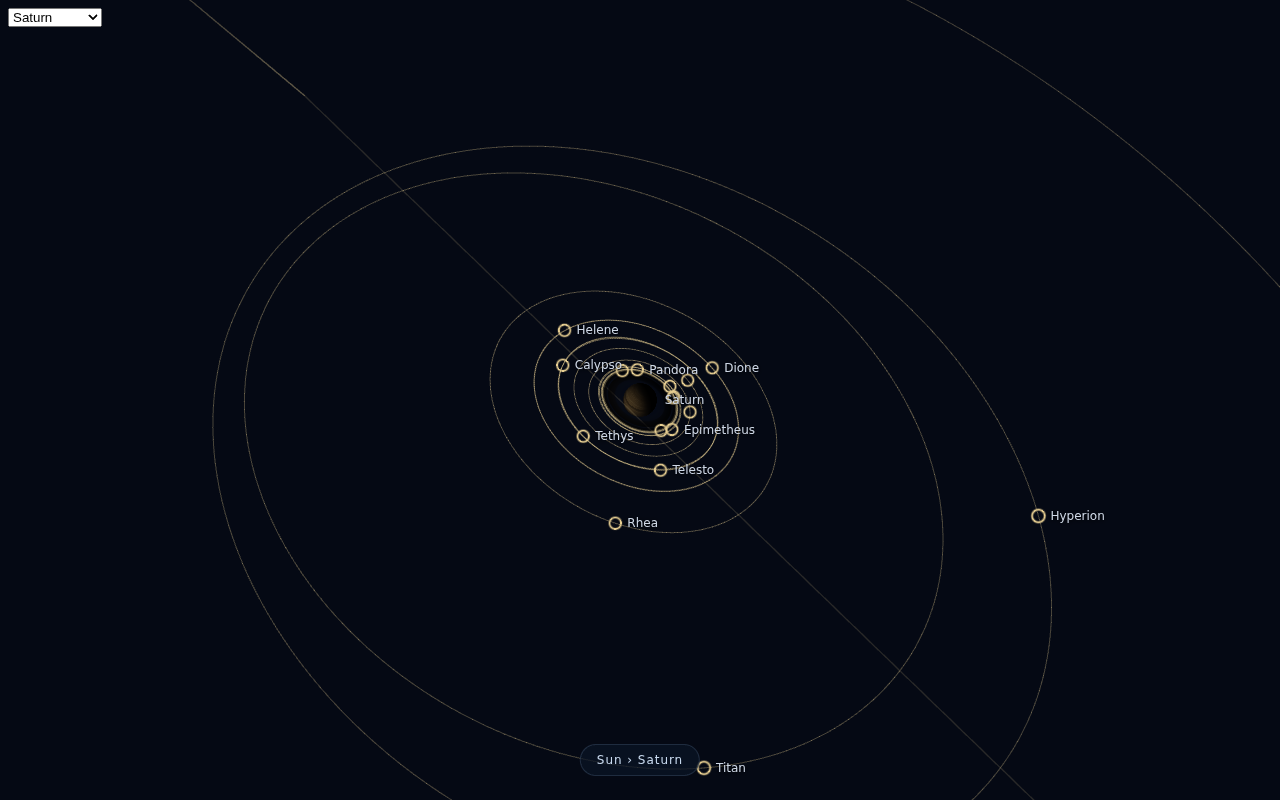
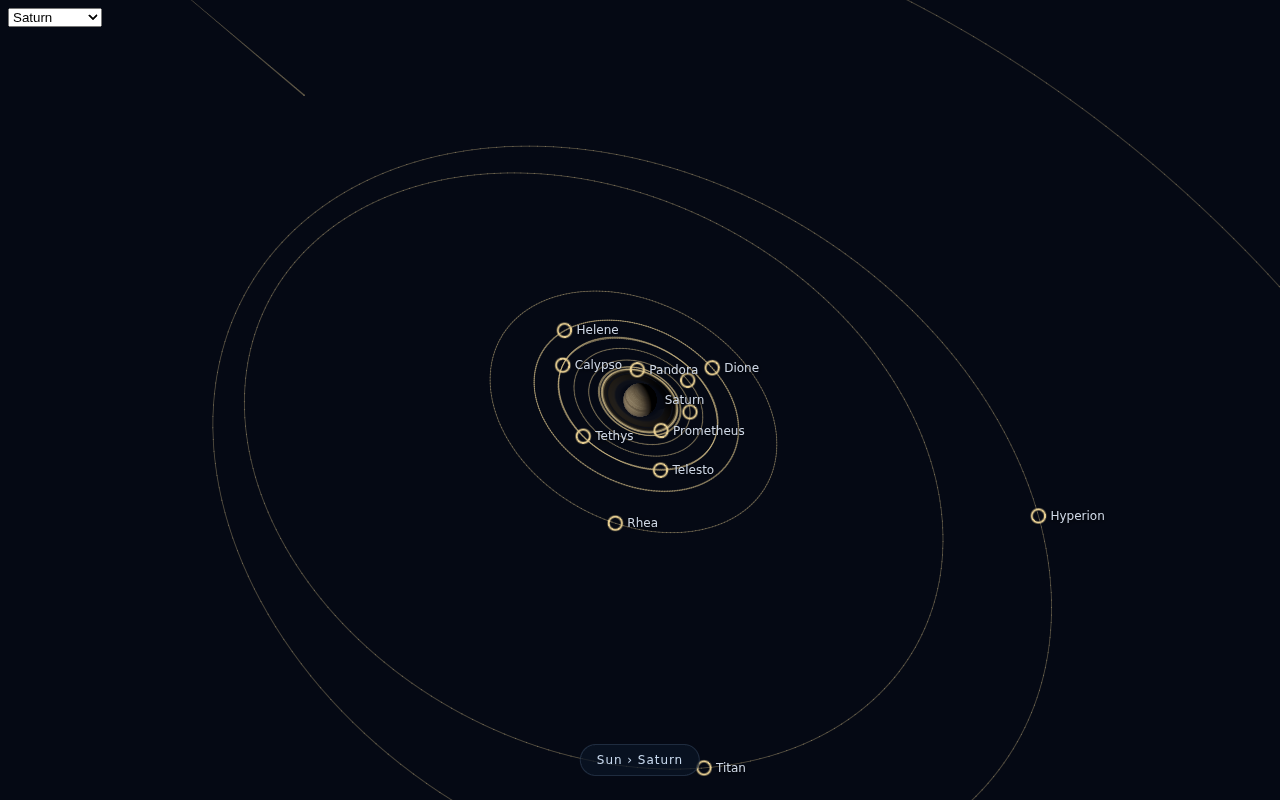
Validate map presentation and finalize shared rendering integration

Changed region(s): [[0.4375, 0.4062, 0.5938, 0.5938], [0.5312, 0.9375, 0.5625, 0.9688], [0.4375, 0.5312, 0.4688, 0.5625]]

diff --git a/src/render/map/MapView.ts b/src/render/map/MapView.ts
@@ -1,5 +1,5 @@
 import { PlanetRenderer, type PlanetUpdateParams } from '../planet/PlanetRenderer';
-import { QUALITY_PRESETS } from '../core/quality';
+import { QUALITY_PRESETS, type QualitySettings } from '../core/quality';
 import { createTerrain } from '../../sim/terrain';
 import { SCALE_PRESETS } from '../../sim/bodies/scale';
 import { BodyIcons } from './BodyIcons';
@@ -31,6 +31,8 @@ export interface MapUpdate {
   t: number;
   /** Optional stable identity enables focus animation while the object moves. */
   focusId?: string;
+  /** Body ancestry to display when the focus is a vessel. */
+  referenceBody?: string;
   /** Heliocentric position of the focused object (float64). */
   focus: Vec3;
   /** Active vessel trajectory (patched conics) and its heliocentric position. */
@@ -474,6 +476,7 @@ export class MapView {
     bodies: Map<string, Body>,
     private ephem: Ephemeris,
     labelHost: HTMLElement,
+    private quality: QualitySettings = QUALITY_PRESETS.medium,
   ) {
     this.scene.background = new THREE.Color(0x050914);
     this.sunId = [...bodies.values()].find(b => b.kind === 'star')!.id;
@@ -714,11 +717,27 @@ export class MapView {
       vis.sphere.userData.mapVisible = visible;
       const resolved = visible && angular*h > 1.5;
       if (resolved && !vis.renderer) {
-        const quality = { ...QUALITY_PRESETS.low, bakedTextureWidth: QUALITY_PRESETS.medium.bakedTextureWidth };
+        const quality = { ...QUALITY_PRESETS.low, bakedTextureWidth: this.quality.bakedTextureWidth };
         const sunRadius = this.bodies.get(this.sunId)!.body.radius;
         const scale = { ...SCALE_PRESETS.standard, s: sunRadius / 696340000 };
         vis.renderer = new PlanetRenderer(vis.body, vis.body.solidSurface ? createTerrain(vis.body) : null,
           { farOnly: true, quality, scale, registerUniforms: false, sunRadiance: 4 });
+        // Flight's HDR compositor transforms these shaders; direct map rendering needs its own output transform.
+        vis.renderer.root.traverse(object => {
+          if (!(object instanceof THREE.Mesh)) return;
+          const materials = Array.isArray(object.material) ? object.material : [object.material];
+          for (const material of materials) {
+            if (!(material instanceof THREE.ShaderMaterial) || material.fragmentShader.includes('colorspace_fragment')) continue;
+            const premultiplied = material.blending === THREE.CustomBlending && material.blendSrc === THREE.OneFactor;
+            material.fragmentShader = material.fragmentShader.replace(/\}\s*$/, `
+              ${premultiplied ? 'gl_FragColor.rgb /= max(gl_FragColor.a, .00001);' : ''}
+              #include <tonemapping_fragment>
+              #include <colorspace_fragment>
+              ${premultiplied ? 'gl_FragColor.rgb *= gl_FragColor.a;' : ''}
+            }`);
+            material.needsUpdate = true;
+          }
+        });
         this.scene.add(vis.renderer.root);
       }
       const resource = this.resourceBodies.has(vis.body.id);
@@ -764,9 +783,10 @@ export class MapView {
     if (this.hoverBody && this.soi.visible) {
       this.soi.position.copy(this.hoverBody.sphere.position); this.soi.scale.setScalar(this.hoverBody.body.soi);
     }
-    const focusBody = this.bodies.get(identity);
-    if (focusBody && this.breadcrumb.dataset.focus !== identity) {
-      this.breadcrumb.dataset.focus = identity;
+    const breadcrumbId = u.referenceBody ?? identity;
+    const focusBody = this.bodies.get(breadcrumbId);
+    if (focusBody && this.breadcrumb.dataset.focus !== breadcrumbId) {
+      this.breadcrumb.dataset.focus = breadcrumbId;
       const chain: string[] = [];
       let body: Body | undefined = focusBody.body;
       while (body) { chain.unshift(body.name); body = body.parent ? this.bodies.get(body.parent)?.body : undefined; }

diff --git a/tests/map-presentation.test.ts b/tests/map-presentation.test.ts
@@ -5,6 +5,9 @@ import { createEphemeris } from '../src/sim/orbit/ephemeris';
 import { MapView } from '../src/render/map/MapView';
 import { bodyBreadcrumbs, familyColor, placeLabel } from '../src/render/map/presentation';
 import { acquireSurfaceBake } from '../src/render/planet/sharedBake';
+import { PlanetRenderer } from '../src/render/planet/PlanetRenderer';
+import { QUALITY_PRESETS } from '../src/render/core/quality';
+import { livePlanetUniforms } from '../src/render/planet/uniforms';
 import { TerrainWorkerPool } from '../src/render/planet/workerPool';
 import { createTerrain } from '../src/sim/terrain';
 
@@ -42,6 +45,26 @@ describe('map presentation', () => {
     b.release(); await Promise.resolve(); expect(dispose).toHaveBeenCalledOnce();
     pool.dispose();
   });
+  it('shares flight/map surface textures without replacing flight lighting', async () => {
+    const body = createUniverse('standard').get('moon')!, terrain = createTerrain(body), pool = new TerrainWorkerPool(0);
+    const quality = { ...QUALITY_PRESETS.low, bakedTextureWidth: 16 };
+    const flight = new PlanetRenderer(body, terrain, { farOnly: true, pool, quality });
+    const map = new PlanetRenderer(body, terrain, { farOnly: true, pool, quality, registerUniforms: false });
+    const bake = vi.spyOn(pool, 'bake');
+    const camera = new THREE.PerspectiveCamera(); camera.position.set(3e6,0,0);
+    const input = { camera, origin: { x: 0,y: 0,z: 0 }, bodyPosition: { x: 0,y: 0,z: 0 },
+      bodyRotation: { x: 0,y: 0,z: 0,w: 1 }, sunPosition: { x: 1e10,y: 0,z: 0 }, dt: 0 };
+    flight.update(input); map.update({ ...input, origin: { x: 1e5,y: 0,z: 0 } });
+    await Promise.resolve(); await Promise.resolve();
+    const texture = (renderer: PlanetRenderer) => ((renderer.root.children[0] as THREE.Mesh).material as THREE.ShaderMaterial).uniforms.uMap.value;
+    expect(bake).toHaveBeenCalledOnce(); expect(texture(flight)).toBe(texture(map));
+    expect(livePlanetUniforms('moon').uPlanetCenter.value).toBe(flight.uniforms.uPlanetCenter.value);
+    expect(map.uniforms.uPlanetCenter.value.x).toBe(-1e5);
+    const dispose = vi.spyOn(texture(flight), 'dispose');
+    map.dispose(); await Promise.resolve(); expect(dispose).not.toHaveBeenCalled();
+    flight.dispose(); await Promise.resolve(); expect(dispose).toHaveBeenCalledOnce();
+    pool.dispose();
+  });
   it('retains conics, picks instanced body icons, and supports overlays and target changes', () => {
     vi.stubGlobal('document', { createElement: host });
     const bodies = createUniverse('standard'), ephem = createEphemeris(bodies);
@@ -58,6 +81,14 @@ describe('map presentation', () => {
     expect(map.scene.children.filter(o => o.type === 'Sprite')).toHaveLength(5); // Sun, active, approach pair, fleet.
     map.setResourceOverlay(['moon']); map.setResourceOverlay([], false);
     map.setApproach({ body: 'earth', positionA: { x: 1e6, y: 0, z: 0 }, positionB: { x: 2e6, y: 0, z: 0 }, label: 'Approach' });
-    map.update(input); map.dispose();
+    map.update(input);
+    map.update({ ...input, focusId: 'vessel:first', referenceBody: 'sun' });
+    map.distance = 2e11;
+    map.update({ ...input, focusId: 'vessel:second', referenceBody: 'sun', focus: { x: 1e11,y: 0,z: 0 } });
+    const sun = map.scene.children.find(o => o.type === 'Mesh' && o.scale.x === bodies.get('sun')!.radius)!;
+    expect(Math.abs(sun.position.x)).toBeLessThan(1e11);
+    expect(map.camera.position.length()).toBeGreaterThan(2e11);
+    expect(map.camera.position.length()).toBeLessThan(6e11);
+    map.dispose();
   });
 });

diff --git a/src/render/map/OrbitStyle.ts b/src/render/map/OrbitStyle.ts
@@ -17,11 +17,22 @@ export class OrbitStyle {
       shader.vertexShader = 'varying vec3 vMapPosition;\n' + shader.vertexShader;
       shader.vertexShader = shader.vertexShader.replace('vec4 start =',
         'vMapPosition = (modelMatrix * vec4(position.y < 0.5 ? instanceStart : instanceEnd, 1.0)).xyz;\nvec4 start =');
+      shader.vertexShader = shader.vertexShader.replace('offset *= linewidth;', 'offset *= linewidth + 2.0;');
       shader.fragmentShader = `varying vec3 vMapPosition;
         uniform vec4 mapOccluders[12]; uniform int mapCount;
         uniform float mapDistance, mapTrajectory; uniform vec3 mapVessel;
       ` + shader.fragmentShader;
       shader.fragmentShader = shader.fragmentShader.replace('gl_FragColor = vec4( diffuseColor.rgb, alpha );', `
+        // Derivative coverage works even when the map bypasses the post-AA pipeline.
+        float capsule = length(vec2(vUv.x, max(abs(vUv.y)-1., 0.)));
+        float edgeDistance = capsule * (linewidth + 2.) * .5 - linewidth * .5;
+        float pixelAA = max(.5, fwidth(edgeDistance) * .5);
+        alpha *= 1. - smoothstep(-pixelAA, pixelAA, edgeDistance);
+        #ifdef USE_DASH
+          float dashAt = mod(vLineDistance + dashOffset, dashSize + gapSize);
+          float dashAA = max(fwidth(vLineDistance), .001);
+          alpha *= smoothstep(0., dashAA, dashAt) * (1. - smoothstep(dashSize - dashAA, dashSize, dashAt));
+        #endif
         vec3 ray = vMapPosition - cameraPosition;
         float rayLength = length(ray); vec3 direction = ray / max(rayLength, 1.);
         float occlusion = 1.;
@@ -32,7 +43,8 @@ export class OrbitStyle {
           float side = length(center - direction * along);
           float radius = mapOccluders[i].w;
           float edge = max(radius * .025, 1.);
-          if (along > 0. && along < rayLength && rayLength > along + radius)
+          float front = along - sqrt(max(radius*radius-side*side, 0.));
+          if (along > 0. && rayLength > front + edge)
             occlusion *= mix(.08, 1., smoothstep(radius - edge, radius + edge, side));
         }
         float focusFade = mix(.18, 1., exp(-length(vMapPosition) / max(mapDistance * 5., 1.)));

diff --git a/src/ui/tracking/trackingView.ts b/src/ui/tracking/trackingView.ts
@@ -28,7 +28,7 @@ export class TrackingView {
     const canvas = this.pipeline.renderer.domElement;
     Object.assign(canvas.style, { width: '100%', height: '100%', display: 'block' });
     host.appendChild(canvas);
-    this.map = new MapView(world.universe.bodies, world.universe.ephem, host);
+    this.map = new MapView(world.universe.bodies, world.universe.ephem, host, getQuality(game.get().settings.quality));
     this.focus = { kind: 'body', id: world.universe.sunId };
     this.setFocus(this.focus);
     this.detach = this.map.attachControls(canvas, () => this.focus.kind === 'body' ? world.universe.body(this.focus.id).radius * 1.2 : 10);
@@ -86,7 +86,7 @@ export class TrackingView {
     const focus = this.focus.kind === 'vessel'
       ? world.vessels.get(this.focus.id)!.state.position
       : world.universe.ephem.getBodyState(this.focus.id, world.ut).position;
-    this.map.update({ t: world.ut, focusId: this.focus.kind === 'body' ? this.focus.id : world.vessels.get(this.focus.id)?.body, focus, comms: world.commsSettings.enabled && game.get().settings.commsOverlay ? world.comms : undefined, viewport: { width: this.width, height: this.height } });
+    this.map.update({ t: world.ut, focusId: this.focus.kind === 'body' ? this.focus.id : `vessel:${this.focus.id}`, referenceBody: this.focus.kind === 'body' ? this.focus.id : world.vessels.get(this.focus.id)?.body, focus, comms: world.commsSettings.enabled && game.get().settings.commsOverlay ? world.comms : undefined, viewport: { width: this.width, height: this.height } });
     this.pipeline.renderer.setRenderTarget(null);
     this.pipeline.renderer.render(this.map.scene, this.map.camera);
     if (now - this.lastUi > 250) { this.refresh(); this.lastUi = now; }

diff --git a/src/flight/controller.ts b/src/flight/controller.ts
@@ -199,7 +199,7 @@ export class FlightController {
     Object.assign(labelHost.style, { position: 'absolute', inset: '0', pointerEvents: 'none' });
     labelHost.classList.add('photo-hide');
     host.appendChild(labelHost);
-    this.map = new MapView(universe.bodies, universe.ephem, labelHost);
+    this.map = new MapView(universe.bodies, universe.ephem, labelHost, q);
     this.map.setVisible(false);
 
     this.disposers.push(this.cam.attach(canvas, () => !this.mapMode && !this.paused));
@@ -559,7 +559,8 @@ export class FlightController {
       this.map.update({
         t,
         focus: origin,
-        focusId: wv.body,
+        focusId: `vessel:${wv.state.id}`,
+        referenceBody: wv.body,
         comms: this.world.commsSettings.enabled && game.get().settings.commsOverlay ? this.world.comms : undefined,
         vessel: { position: origin, patches: this.world.trajectory(), nodes: this.world.nodes },
         markers: [

diff --git a/DECISIONS.md b/DECISIONS.md
@@ -59,3 +59,4 @@ Decisions made autonomously while the owner was away. Each can be revisited.
 - **Flight records (cx/flightlog)**: World owns a DOM-free recorder with compact SI telemetry tuples in a 1,024-entry circular buffer per live vessel, sampled every 0.25 s during burns/atmospheric flight, 5 s during quiet suborbital flight and 30 s in stable vacuum orbits. Physics-step peak statistics and thrust Δv are independent of chart retention. Completed reports retain 128 evenly selected retained samples; the archive keeps 40 completed flights to fit browser saves. Events cap at 256 per vessel. Expensive full staging Δv projections refresh at 1 Hz or immediately on hardware changes; intervening telemetry subtracts measured thrust consumption. Splits inherit flight provenance; docking merges visited/landed body provenance. Surface-relative distance/downrange use sampled trapezoidal integration and charts break at body changes. A Space Center return creates a checkpoint report while the vessel keeps flying. Achievements use a separate versioned localStorage profile, merged on write, so starting/reverting programs does not erase awards. Each catalog planet/moon has an SOI first, so the total exceeds the nominal forty requested; all names and prose are original. The flyby feat uses parent-frame entry/exit speed gain (>100 m/s, <10 m/s thrust Δv); shieldless survival requires recovery after >1,500 m/s / >1,000 K / >100 Pa entry exposure.
 
 - **Map presentation (2026-10-04, cx/mapviz)**: Reuse PlanetRenderer with farOnly and a separate uniform registry scope for the map. Reference-count pending terrain bakes and GPU textures by worker pool, complete body definition, wavelength and resolution; sharing does not couple lighting or material ownership. Body icons use one instanced draw with CPU-projected billboard centres to avoid catastrophic float32 cancellation at solar-system distances. Orbit shaders retain 8% opacity behind a bounded set of 12 resolved body spheres, fade distant segments, and apply a vessel-distance brightness gradient; rings use the planet renderer's physical shadows. Future patches use normalized conic-length dashes. Body labels/icons use deterministic size priority and reusable collision boxes; moons require both projected orbital separation and proximity to their parent's SOI. An optional focusId preserves the public map API and distinguishes moving references from focus changes; target offsets and logarithmic distance converge exponentially. Tracking adds clickable ancestry and expands the focused branch. Existing sim ephemeris/Kepler calls still allocate their returned states; map scratch vectors, icon matrices, conic snapshots, marker pools and buffers are reused, with geometry rebuilt only when orbital inputs change.
+- **Map direct output (cx/mapviz)**: Apply tone mapping/output colour conversion only to the map's private planet materials because its callers bypass the flight HDR compositor; undo/reapply premultiplication around the transform where required. Expand Line2's screen-space quad by two pixels and evaluate capsule/dash coverage in the fragment shader so subpixel orbit lines remain continuous without relying on multisample alpha coverage. Pass the flight bake resolution through an optional constructor argument; identify vessel focus separately from the reference-body breadcrumb to animate same-parent vessel changes.

diff --git a/PROGRESS.md b/PROGRESS.md
@@ -414,3 +414,10 @@ Final quality-pass validation after merging main through `981e915` (audio, craft
 - Body icons render in a single instanced draw; billboard attributes remain in projected coordinates for solar-system precision. Stable body/fleet/vessel conics retain geometry, including phase/epoch/parabolic-state checks. Scratch vectors, collision boxes, marker pools, line buffers and maneuver directions are reused. Simulation ephemeris/Kepler return-value allocation remains outside the renderer; no zero-allocation physics claim.
 - Initial validation: lint, TypeScript and build pass. Required full suite: 64 files/819 tests pass, only the explicitly excluded world-saturn-real.test.ts stock-attachment assertion fails (181.53 s). Four new focused map tests pass. Real WebGL browser regression verifies stable geometry, dashed patches, body picking, maneuver handle dragging (10 → 71.87 m/s), approach markers, resource/comms overlays and Tracking Station, with no browser errors. Screenshot evidence and final post-merge checks follow.
 - Port 5199 was occupied by an existing sharing-worktree Vite process, so this worktree uses 5209 without disturbing it. T3 preview navigation/snapshot timed out; used the user-requested scripts/shot.mjs and a repository browser regression harness. Screenshots are software-WebGL evidence, not a hardware frame-rate measurement.
+
+### Map final integration and validation
+
+- Merged main through f787707 (Real scale stock fixes) into cx/mapviz. The final full `npx vitest run --maxWorkers=2` passes **66 files / 828 tests**, 376.49 s, including the updated Saturn Real test. A preceding foreground rerun received external SIGTERM/143; the detached retry completed normally. Final map/planet focused checks pass 11 tests, including simultaneous texture sharing, independent flight uniforms, texture disposal ownership and animation between two vessels sharing one reference body.
+- Final `npm run lint`, `npx tsc --noEmit`, `npm run build` and whitespace checks pass. Browser regression passes with zero shader/page errors: 53 stable conics, dashed future patches, hover details, node handle dragging, resource/comms/approach overlays, animated camera distance and Tracking Station entry. Build retains the existing large-chunk advisory.
+- Direct map rendering now applies the output colour transform that flight normally gets from its HDR compositor, with premultiplied-alpha handling for rings/atmospheres. Orbit edge/dash coverage is shader-smoothed without requiring MSAA or a postprocess pass. Map bake resolution follows the flight graphics preset; vessel focus identity is separate from its breadcrumb ancestry.
+- Final screenshots: `docs/screenshots/map-saturn.png` (`/map-preview.html?focus=saturn&dist=3e8`) and `docs/screenshots/map-solar-system.png` (`?focus=sun&dist=6e11`), both 1280×800, port 5209, via the requested screenshot script. A close-up was also inspected for surface bands/rings, but is not presented as a separate deliverable. Software-WebGL evidence does not establish laptop performance.
